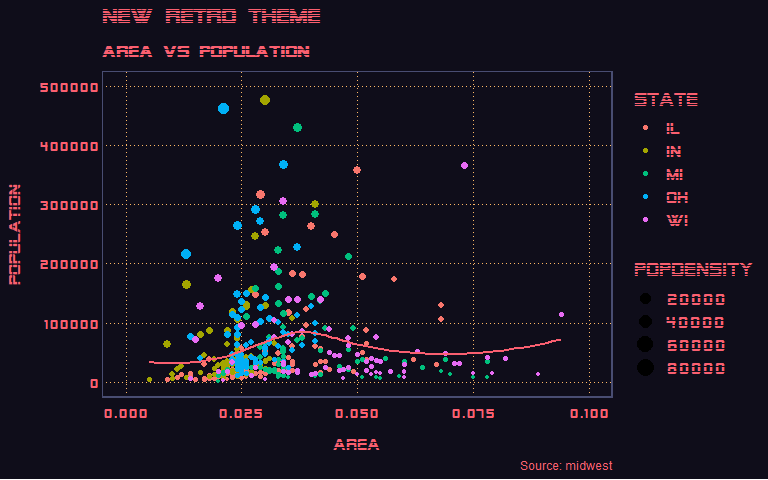
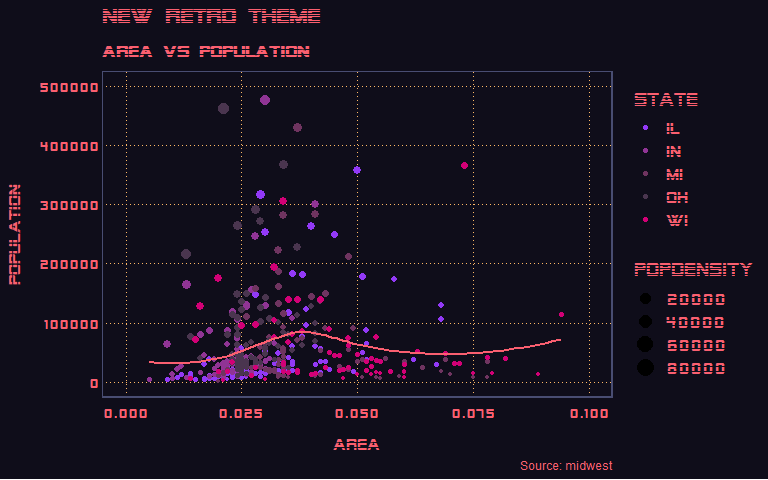
Fix gif Fix Floral Shoppe Demo

diff --git a/Readme.md b/Readme.md
@@ -25,7 +25,10 @@ On the musical side it's known for it's appropriation of 1980's and 1990's eleva
 
 On the visual side it's know for A E S T H E T I C S with fullwidth characters it's satrical takes on consumer capitalism (*.e.g* the use wih Greco-Roman statues to signify the fall of capitalism), and other nostalgic or surrealist engagement with glitch art, anime, 3D-rendered objects and cyberpunk trope in it's cover art and music videos.
 
-<img src="Readme_files/figure-gfm/digital_aes.jpg" /> <img src="Readme_files/figure-gfm/CLKW.gif" /> <img src="Readme_files/figure-gfm/snapshot.jpg" /> \#\# Setup theme and scales
+<img src="Readme_files/figure-gfm/digital_aes.jpg" /> <img src="Readme_files/figure-gfm/ClKW.gif" /> <img src="Readme_files/figure-gfm/snapshot.jpg" />
+
+Setup theme and scales
+----------------------
 
 There are three theme-generating functions:
 
@@ -101,7 +104,7 @@ ggplot(midwest, aes(x=area, y=poptotal)) +
        y="Population", 
        x="Area", 
        title="New Retro Theme", 
-       caption = "Source: midwest") + new_retro()
+       caption = "Source: midwest") + new_retro() + scale_colour_newRetro()
 #> Warning: Removed 15 rows containing non-finite values (stat_smooth).
 #> Warning: Removed 15 rows containing missing values (geom_point).
 ```
